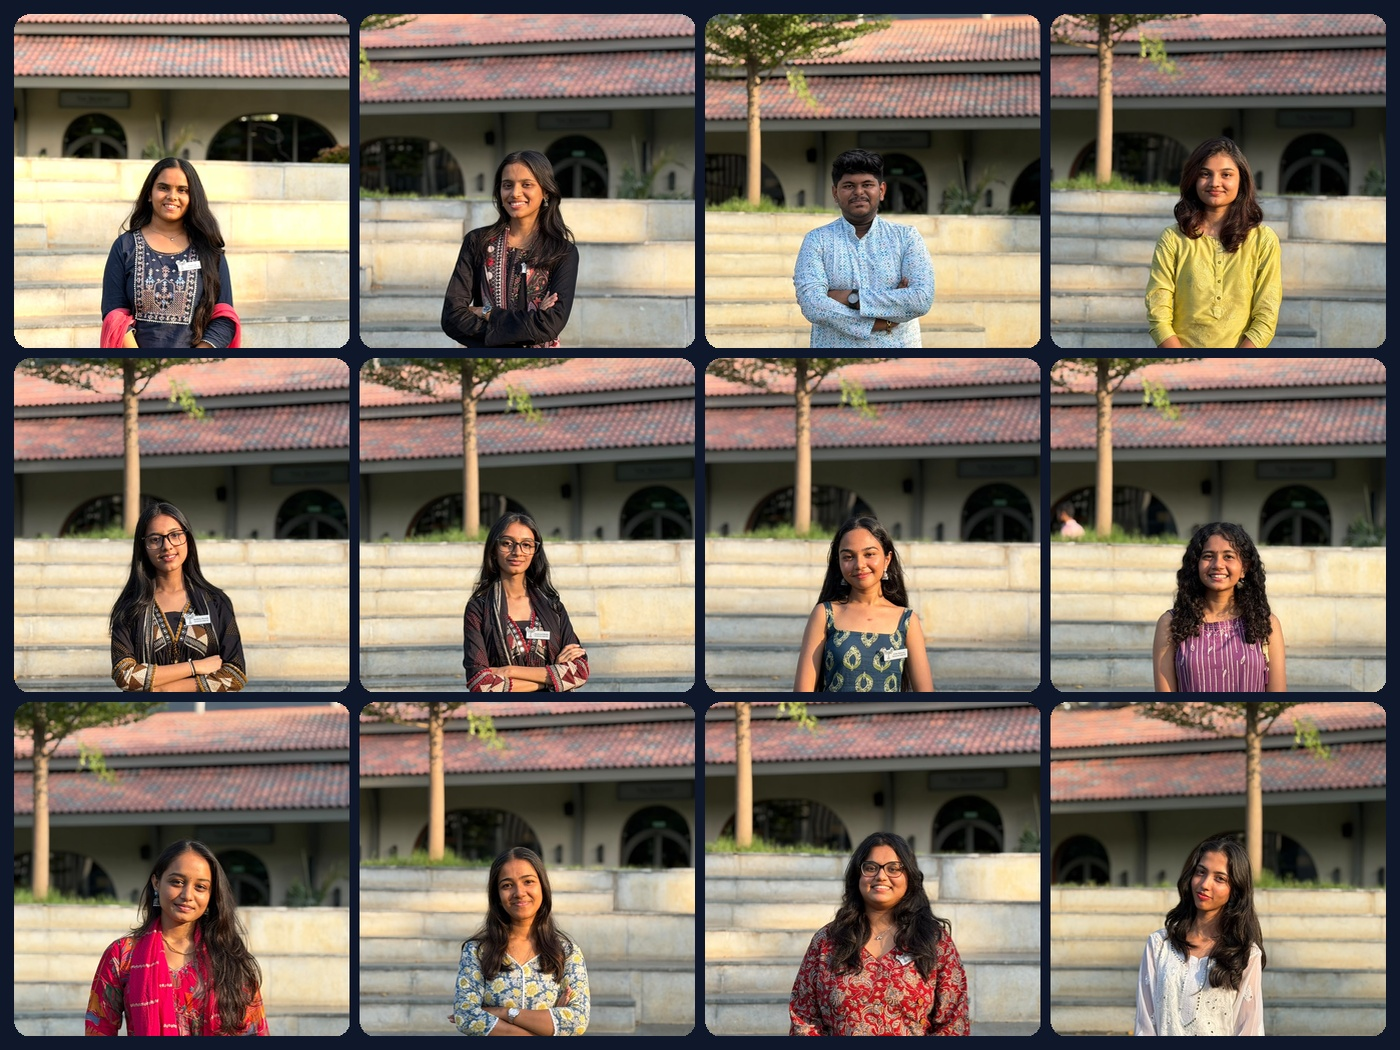
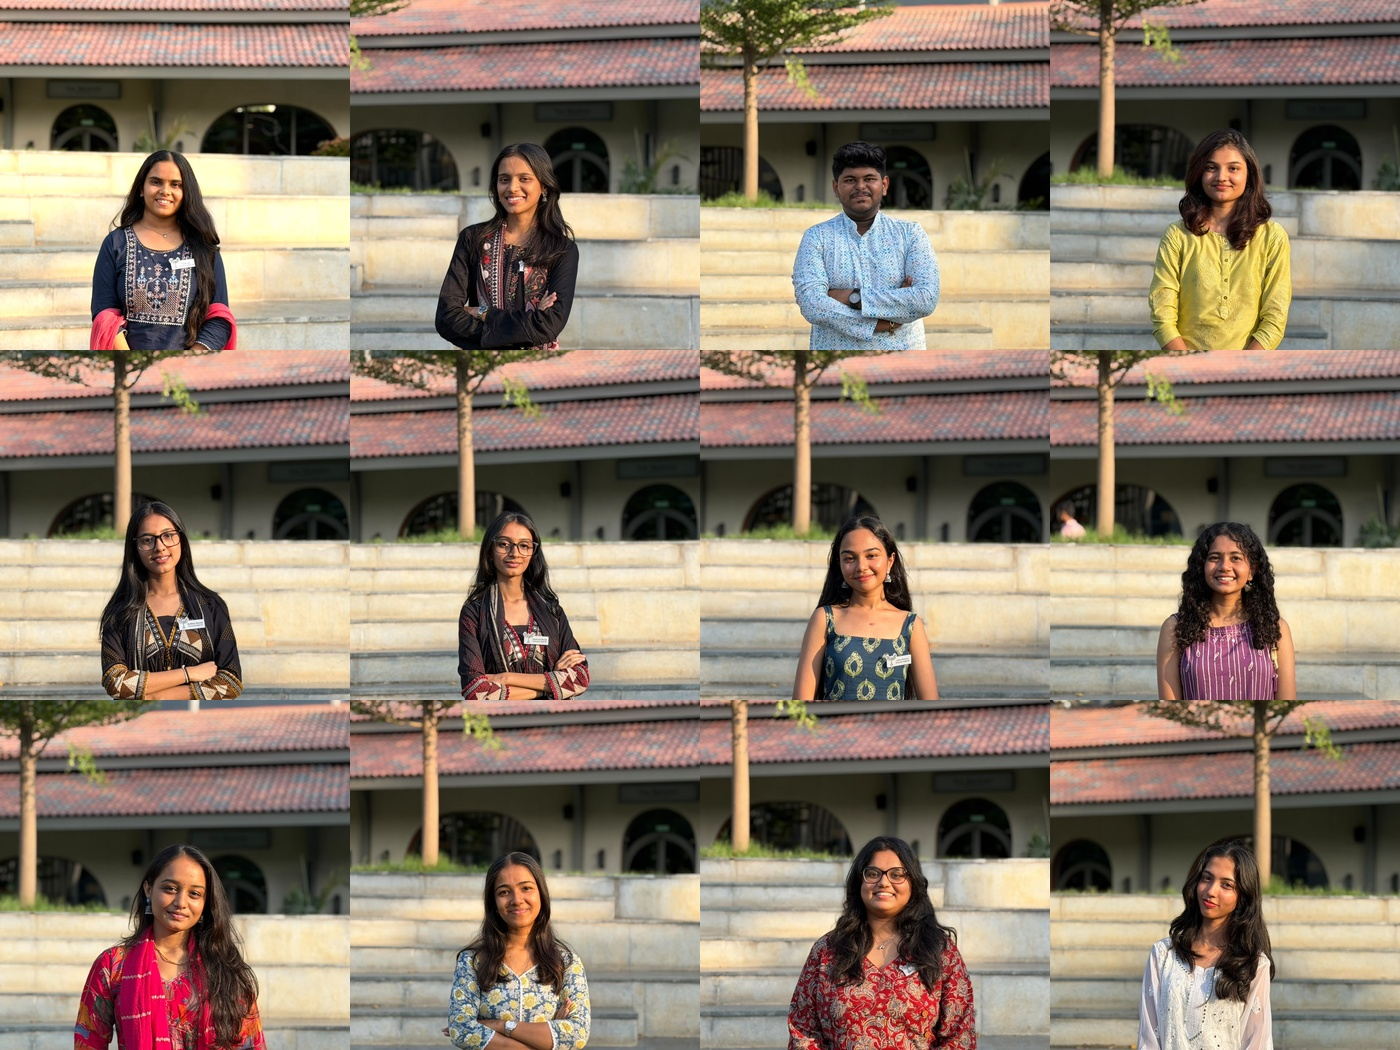
Enhance committee collage: remove dark borders and enable interactive click pop-out animation

diff --git a/committee.html b/committee.html
@@ -103,8 +103,55 @@
         </div>
 
         <div class="page-hero-visual">
-          <div class="hero-team-panel">
-            <img src="images/team/committee-collage.jpg" alt="Phoenix Club Committee Members Collage" class="lightbox-trigger" />
+          <div class="interactive-collage" id="committeeCollage" aria-label="Interactive Committee Members Collage Grid">
+            <div class="collage-item" data-name="Palak Gill" title="Palak Gill - Outreach Coordinator">
+              <img src="images/team/outreach-palak-gill.jpg" alt="Palak Gill - Outreach Coordinator" loading="lazy" />
+              <span class="collage-tooltip">Palak Gill &bull; Outreach</span>
+            </div>
+            <div class="collage-item" data-name="Afiya Gohel" title="Afiya Gohel - Outreach Coordinator">
+              <img src="images/team/outreach-afiya-gohel.jpg" alt="Afiya Gohel - Outreach Coordinator" loading="lazy" />
+              <span class="collage-tooltip">Afiya Gohel &bull; Outreach</span>
+            </div>
+            <div class="collage-item" data-name="Aditya Nath" title="Aditya Nath - Website & UI Support">
+              <img src="images/team/technical-aditya-nath.jpg" alt="Aditya Nath - Website & UI Support" loading="lazy" />
+              <span class="collage-tooltip">Aditya Nath &bull; Technical</span>
+            </div>
+            <div class="collage-item" data-name="Shreya Chauhan" title="Shreya Chauhan - Technical Operations">
+              <img src="images/team/technical-shreya-chauhan.jpg" alt="Shreya Chauhan - Technical Operations" loading="lazy" />
+              <span class="collage-tooltip">Shreya Chauhan &bull; Technical</span>
+            </div>
+            <div class="collage-item" data-name="Radhika Bhalala" title="Radhika Bhalala - Decoration Lead">
+              <img src="images/team/decoration-radhika-bhalala.jpg" alt="Radhika Bhalala - Decoration Lead" loading="lazy" />
+              <span class="collage-tooltip">Radhika Bhalala &bull; Decoration</span>
+            </div>
+            <div class="collage-item" data-name="Chandravali Bhalala" title="Chandravali Bhalala - Decoration Coordinator">
+              <img src="images/team/decoration-chandravali-bhalala.jpg" alt="Chandravali Bhalala - Decoration Coordinator" loading="lazy" />
+              <span class="collage-tooltip">Chandravali Bhalala &bull; Decoration</span>
+            </div>
+            <div class="collage-item" data-name="Krishna Makwana" title="Krishna Makwana - Decoration Coordinator">
+              <img src="images/team/decoration-krishna-makwana.jpg" alt="Krishna Makwana - Decoration Coordinator" loading="lazy" />
+              <span class="collage-tooltip">Krishna Makwana &bull; Decoration</span>
+            </div>
+            <div class="collage-item" data-name="Vani Patel" title="Vani Patel - Decoration Coordinator">
+              <img src="images/team/decoration-vani-patel.jpg" alt="Vani Patel - Decoration Coordinator" loading="lazy" />
+              <span class="collage-tooltip">Vani Patel &bull; Decoration</span>
+            </div>
+            <div class="collage-item" data-name="Drashti Patel" title="Drashti Patel - Content Lead">
+              <img src="images/team/media-drashti-patel.jpg" alt="Drashti Patel - Content Lead" loading="lazy" />
+              <span class="collage-tooltip">Drashti Patel &bull; Media</span>
+            </div>
+            <div class="collage-item" data-name="Khadija Daudi" title="Khadija Daudi - Graphic Designer">
+              <img src="images/team/media-khadija-daudi.jpg" alt="Khadija Daudi - Graphic Designer" loading="lazy" />
+              <span class="collage-tooltip">Khadija Daudi &bull; Design</span>
+            </div>
+            <div class="collage-item" data-name="Pushti Parekh" title="Pushti Parekh - Social Media Coordinator">
+              <img src="images/team/media-pushti-parekh.jpg" alt="Pushti Parekh - Social Media Coordinator" loading="lazy" />
+              <span class="collage-tooltip">Pushti Parekh &bull; Media</span>
+            </div>
+            <div class="collage-item" data-name="Vidhi Desai" title="Vidhi Desai - Social Media Coordinator">
+              <img src="images/team/media-vidhi-desai.jpg" alt="Vidhi Desai - Social Media Coordinator" loading="lazy" />
+              <span class="collage-tooltip">Vidhi Desai &bull; Media</span>
+            </div>
           </div>
         </div>
       </div>

diff --git a/styles.css b/styles.css
@@ -1737,6 +1737,112 @@ textarea.form-control {
   transform: scale(1.02);
 }
 
+/* ==========================================================================
+   Interactive Committee Collage Grid
+   ========================================================================== */
+.interactive-collage {
+  display: grid;
+  grid-template-columns: repeat(4, 1fr);
+  gap: 7px;
+  width: min(100%, 370px);
+  padding: 8px;
+  border-radius: var(--radius-lg);
+  background: var(--bg-surface);
+  border: 1px solid rgba(249, 115, 22, 0.24);
+  box-shadow: var(--shadow-flame);
+  position: relative;
+  overflow: visible;
+  box-sizing: border-box;
+  transition: box-shadow var(--transition-base), border-color var(--transition-base);
+}
+
+[data-theme="dark"] .interactive-collage {
+  background: rgba(255, 255, 255, 0.03);
+  border-color: rgba(255, 255, 255, 0.12);
+}
+
+.collage-item {
+  position: relative;
+  aspect-ratio: 1 / 1;
+  border-radius: 8px;
+  cursor: pointer;
+  user-select: none;
+  outline: none;
+  -webkit-tap-highlight-color: transparent;
+}
+
+.collage-item img {
+  display: block;
+  width: 100%;
+  height: 100%;
+  object-fit: cover;
+  object-position: top center;
+  border-radius: 8px;
+  border: 1px solid rgba(0, 0, 0, 0.08);
+  transition: transform 0.28s cubic-bezier(0.34, 1.56, 0.64, 1), box-shadow 0.28s ease, border-color 0.28s ease;
+}
+
+[data-theme="dark"] .collage-item img {
+  border-color: rgba(255, 255, 255, 0.12);
+}
+
+/* Subtle Hover preview */
+.collage-item:hover {
+  z-index: 15;
+}
+
+.collage-item:hover img {
+  transform: scale(1.14) translateY(-3px);
+  box-shadow: 0 10px 22px rgba(0, 0, 0, 0.22), 0 0 0 2px var(--flame-400);
+}
+
+/* Active Popped-Out State (When clicked!) */
+.collage-item.popped-out {
+  z-index: 40 !important;
+}
+
+.collage-item.popped-out img {
+  transform: scale(1.36) translateY(-6px);
+  box-shadow: 0 18px 36px rgba(0, 0, 0, 0.38), 0 0 0 3px var(--flame-500), 0 0 18px rgba(249, 115, 22, 0.5);
+  border-color: var(--flame-500);
+}
+
+/* Tooltip Badge showing Name & Role on Hover / Click */
+.collage-tooltip {
+  position: absolute;
+  bottom: -28px;
+  left: 50%;
+  transform: translateX(-50%) translateY(4px);
+  background: var(--ink-900);
+  color: #ffffff;
+  font-size: 0.72rem;
+  font-weight: 700;
+  padding: 3px 8px;
+  border-radius: 6px;
+  white-space: nowrap;
+  pointer-events: none;
+  opacity: 0;
+  visibility: hidden;
+  transition: opacity 0.2s ease, transform 0.2s ease, visibility 0.2s ease;
+  z-index: 50;
+  box-shadow: 0 4px 14px rgba(0, 0, 0, 0.3);
+  border: 1px solid rgba(249, 115, 22, 0.4);
+}
+
+/* Flip tooltip to top for the bottom row so it stays within frame */
+.collage-item:nth-child(n+9) .collage-tooltip {
+  bottom: auto;
+  top: -28px;
+  transform: translateX(-50%) translateY(-4px);
+}
+
+.collage-item.popped-out .collage-tooltip,
+.collage-item:hover .collage-tooltip {
+  opacity: 1;
+  visibility: visible;
+  transform: translateX(-50%) translateY(0);
+}
+
 .team-section {
   padding-top: 24px;
 }

diff --git a/navbar.js b/navbar.js
@@ -537,6 +537,66 @@ document.addEventListener('DOMContentLoaded', function () {
     }
   }, true);
 
+  /* ==========================================================================
+     8. Interactive Committee Collage Grid (Click to Pop Out)
+     ========================================================================== */
+  const committeeCollage = document.getElementById('committeeCollage');
+  if (committeeCollage) {
+    const collageItems = committeeCollage.querySelectorAll('.collage-item');
+
+    collageItems.forEach(function (item) {
+      item.setAttribute('tabindex', '0');
+      item.setAttribute('role', 'button');
+      item.setAttribute('aria-pressed', 'false');
+
+      function togglePopOut(e) {
+        e.stopPropagation();
+        const isPopped = item.classList.contains('popped-out');
+
+        // Reset all items
+        collageItems.forEach(function (el) {
+          el.classList.remove('popped-out');
+          el.setAttribute('aria-pressed', 'false');
+        });
+
+        // Toggle clicked item
+        if (!isPopped) {
+          item.classList.add('popped-out');
+          item.setAttribute('aria-pressed', 'true');
+        }
+      }
+
+      item.addEventListener('click', togglePopOut);
+
+      item.addEventListener('keydown', function (e) {
+        if (e.key === 'Enter' || e.key === ' ') {
+          e.preventDefault();
+          togglePopOut(e);
+        }
+      });
+    });
+
+    // Dismiss when clicking anywhere outside the collage
+    document.addEventListener('click', function (e) {
+      if (!e.target.closest('#committeeCollage')) {
+        collageItems.forEach(function (el) {
+          el.classList.remove('popped-out');
+          el.setAttribute('aria-pressed', 'false');
+        });
+      }
+    });
+
+    // Dismiss on Escape key
+    document.addEventListener('keydown', function (e) {
+      if (e.key === 'Escape') {
+        collageItems.forEach(function (el) {
+          el.classList.remove('popped-out');
+          el.setAttribute('aria-pressed', 'false');
+        });
+      }
+    });
+  }
+
   // Current year in footer
   const yearNode = document.getElementById('year');
   if (yearNode) {
